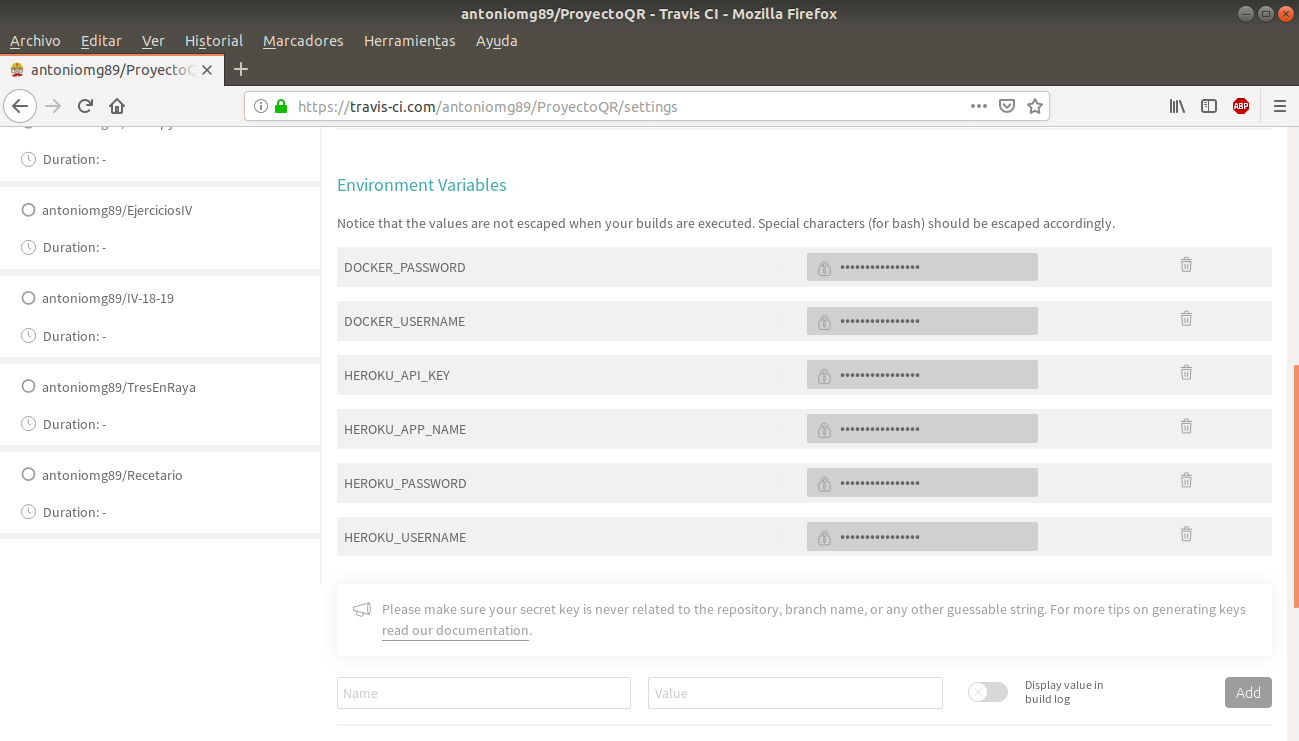
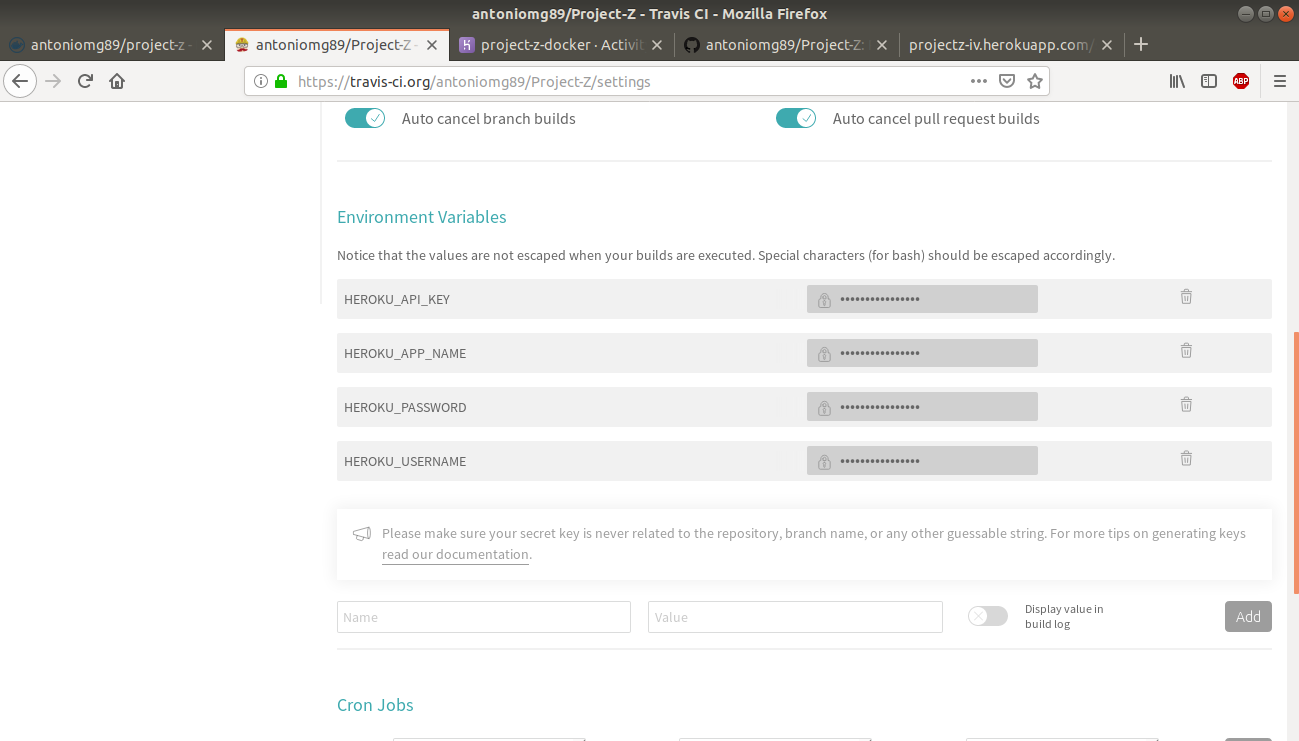
Cambiando documentación

diff --git a/doc/Docker.md b/doc/Docker.md
@@ -8,6 +8,8 @@ Hecho esto se crea una "automated build" y se selecciona el repositorio del cual
 
 ![DOCKER_HUB1](./img/DockerHub-1.png)
 
+![DOCKER_HUB2](./img/DockerHub-2.png)
+
 En el repositorio de de github que se ha enlazado con Docker Hub hay que crear el correspondiente dockerfile, que contendrá las instrucciones necesarias para crear el contenedor.
 
 ~~~
@@ -38,46 +40,18 @@ Con esto las próximas veces que se haga un push al repositorio de Github se act
 
 El despliegue automático del contenedor se realizará con Travis.
 
+Un resumen de los motivos por los cuales he decidido hacerlo así es que se tarda unos minutos (más de 3) en crear la imagen en Docker Hub, por tanto el despliegue automático del contenedor se ve afectado por esto. Si se realiza una copia del contenedor dentro de .travis.yml y se despliega a Heroku nada más pasar los tests se tarda menos de dos minutos. De esta forma tenemos la misma aplicación desplegada pero en mucho menos tiempo.
+
 Como se va a ejecutar el comando docker es necesario indicar en el archivo que se va a hacer uso de **sudo**:
 
 ~~~
 sudo: required
-
-services:
-  - docker
-~~~
-
-El siguiente paso es iniciar sesión en Docker Hub:
-
-~~~
-sudo: required
 language: python
 python:
   - "3.6"
 
 services:
   - docker
-
-before_install:
-  - echo "$DOCKER_PASSWORD" | docker login -u "$DOCKER_USERNAME" --password-stdin
-~~~
-
-Para iniciar la sesión se crean dos variables de entorno (DOCKER_PASSWORD y DOCKER_USERNAME) en Travis. Estas variables creadas contendrán el usuario y contraseña de Docker Hub.
-
-
-Ahora que ya se ha iniciado sesión ya se puede construir la imagen y hacer un push a Docker Hub.
-
-~~~
-sudo: required
-language: python
-python:
-  - "3.6"
-
-services:
-  - docker
-
-before_install:
-  - echo "$DOCKER_PASSWORD" | docker login -u "$DOCKER_USERNAME" --password-stdin
 
 install:
   - pip3 install -r requirements.txt
@@ -85,35 +59,20 @@ install:
 script:
   - pytest
   - docker build -t antoniomg89/project-z-iv .
-
-deploy:
-  provider: script
-  script:
-    docker push antoniomg89/project-z-iv;
-branch: master
 ~~~
 
-En el push indicamos nombrecuenta/repositorio donde se va a subir la imagen.
+Se trata de realizar el despliegue del contenedor nada más pasar los tests.
 
-Con lo realizado hasta ahora el despliegue siempre será posterior a la ejecución de los tests, de esta forma si fallasen no se ejecutan las instrucciones de *deploy*.
-
-Con *branch: master* se indica el cambio a dicha rama en el despliegue para asegurarnos en caso de tener alguna otra más.
-
-Hasta ahora tendríamos la parte de tests y docker realizada.
-
-#### 3. Configuracion travis.yml y Heroku
-
-El siguiente paso es realizar el despliegue del contenedor en Docker Hub a Heroku. Para ello es necesario tener instalado Heroku CLI.
+El siguiente paso es realizar el despliegue del contenedor a Heroku. Para ello es necesario tener instalado Heroku CLI.
 
 ~~~
 before_install:
   - wget -qO- https://toolbelt.heroku.com/install.sh | sh
-  - echo "$DOCKER_PASSWORD" | docker login -u "$DOCKER_USERNAME" --password-stdin
-- echo "$HEROKU_PASSWORD" | docker login -u "$HEROKU_USERNAME" --password-stdin registry.heroku.com
+  - echo "$HEROKU_PASSWORD" | docker login -u "$HEROKU_USERNAME" --password-stdin registry.heroku.com
 ~~~
 Esta parte contiene la instalación de Heroku CLI y el inicio de sesión en Heroku.
 
-Con esto es necesario agregar dos variables de entorno más en Travis (HEROKU_PASSWORD y HEROKU_USERNAME).
+Con esto es necesario agregar dos variables de entorno en Travis (HEROKU_PASSWORD y HEROKU_USERNAME).
 
 La variable HEROKU_USERNAME ha de ser: **_**
 
@@ -123,11 +82,11 @@ Para HEROKU_PASSWORD ha de generarse un token con Heroku CLI de la siguiente for
 $heroku authorizations:create
 ~~~
 
-A continuación en Heroku, seleccionamos la aplicación creada previamente en el anterior hito, pero ya no la vinculamos con el repositorio de Github puesto que lo que queremos es que se realize el despliegue desde el contenedor y no desde el repositorio de Github.d
+A continuación en Heroku, seleccionamos la aplicación creada previamente en el anterior hito, pero ya no la vinculamos con el repositorio de Github puesto que lo que queremos es que se realize el despliegue desde el contenedor y no desde el repositorio de Github.
 
 El nombre de la aplicación en Heroku también lo añadimos a una nueva variable de entorno en Travis ($HEROKU_APP_NAME).
 
-Una vez realizado esto hay que hacer un push de la imagen de Docker en Heroku en travis.yml:
+Una vez realizado esto hay que hacer un push de la imagen de Docker a Heroku.
 
 ~~~
 script:
@@ -138,17 +97,14 @@ script:
 deploy:
   provider: script
   script:
-    docker push antoniomg89/project-z-iv;
     docker push registry.heroku.com/$HEROKU_APP_NAME/web;
-
-branch: master
 ~~~
 
 Para terminar se hace uso del comando heroku release. Esto requiere de otra variable de entorno en Travis (HEROKU_API_KEY) ya que es necesario estar autentificado en Heroku CLI. El valor de esta variable lo obtenemos de la cuenta creada en Heroku:
 
 ![HEROKU_API_KEY](./img/Heroku_API_KEY.png)
 
-Para terminar se añade el último comando para realizar el despliegue quedando el archivo travis.yml así:
+Se añade el último comando para realizar el despliegue quedando el archivo .travis.yml así:
 
 ~~~
 sudo: required
@@ -161,7 +117,6 @@ services:
 
 before_install:
   - wget -qO- https://toolbelt.heroku.com/install.sh | sh
-  - echo "$DOCKER_PASSWORD" | docker login -u "$DOCKER_USERNAME" --password-stdin
   - echo "$HEROKU_PASSWORD" | docker login -u "$HEROKU_USERNAME" --password-stdin registry.heroku.com
 
 install:
@@ -169,20 +124,18 @@ install:
 
 script:
   - pytest
-  - docker build -t antoniomg89/project-z-iv .
-  - docker tag antoniomg89/project-z-iv registry.heroku.com/$HEROKU_APP_NAME/web
+  - docker build -t antoniomg89/project-z .
+  - docker tag antoniomg89/project-z registry.heroku.com/$HEROKU_APP_NAME/web
 
 deploy:
   provider: script
   script:
-    docker push antoniomg89/project-z-iv;
     docker push registry.heroku.com/$HEROKU_APP_NAME/web;
     heroku container:release web --app $HEROKU_APP_NAME
-branch: master
 ~~~
 
 Las variables de entorno creadas en Travis quedarían así:
 
 ![TRAVIS_ENV_VARS](./img/Travis_ENV_VARS.png)
 
-De esta forma cada vez que se haga un push en el repositorio de Github se realiza todo de forma automática(Tests, Docker y Heroku).
+Haciéndolo de esta forma  cada vez que se haga un push en el repositorio de Github se actualiza el contenedor en Docker Hub a la vez que se despliega en Heroku con la ventaja de que el contenedor quedaría creado y desplegado en menos tiempo de lo que tarda solo en construirse en Docker Hub.
